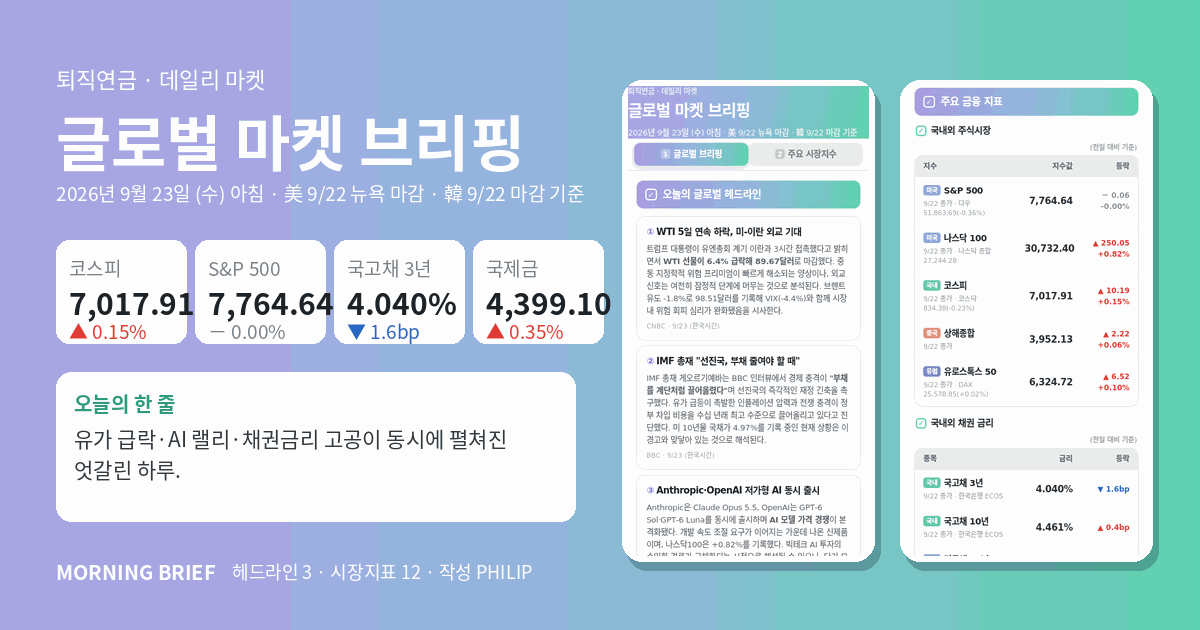
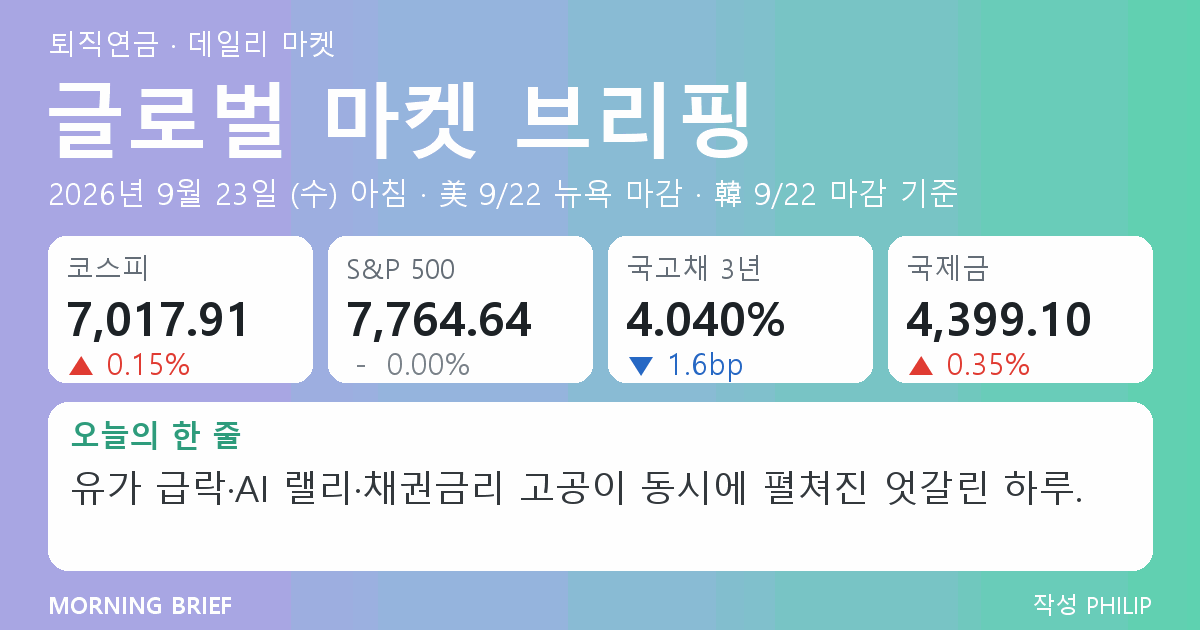
Enlarge daily preview with full-width summary and key indicators

diff --git a/docs/2026-09-23.html b/docs/2026-09-23.html
@@ -22,7 +22,7 @@
 <meta property="og:title"       content="글로벌 마켓 브리핑 | 2026년 9월 23일 (수) 아침">
 <meta property="og:description" content="WTI -6.4%로 89.67달러·미-이란 외교 기대 반영. 나스닥100 +0.82%·미 10년물 4.97%·IMF &#x27;선진국 부채 감축&#x27; 경고 주목.">
 <meta property="og:url"         content="https://psyops42-art.github.io/market-brief/2026-09-23.html">
-<meta property="og:image"       content="https://psyops42-art.github.io/market-brief/og-2026-09-23.png">
+<meta property="og:image"       content="https://psyops42-art.github.io/market-brief/og-2026-09-23.png?v=summary2">
 <meta property="og:image:width"  content="1200">
 <meta property="og:image:height" content="630">
 <meta property="og:image:alt"   content="글로벌 마켓 브리핑 | 2026년 9월 23일 (수) 아침">
@@ -30,7 +30,7 @@
 <meta name="twitter:card"        content="summary_large_image">
 <meta name="twitter:title"       content="글로벌 마켓 브리핑 | 2026년 9월 23일 (수) 아침">
 <meta name="twitter:description" content="WTI -6.4%로 89.67달러·미-이란 외교 기대 반영. 나스닥100 +0.82%·미 10년물 4.97%·IMF &#x27;선진국 부채 감축&#x27; 경고 주목.">
-<meta name="twitter:image"       content="https://psyops42-art.github.io/market-brief/og-2026-09-23.png">
+<meta name="twitter:image"       content="https://psyops42-art.github.io/market-brief/og-2026-09-23.png?v=summary2">
 
 <meta name="description" content="WTI -6.4%로 89.67달러·미-이란 외교 기대 반영. 나스닥100 +0.82%·미 10년물 4.97%·IMF &#x27;선진국 부채 감축&#x27; 경고 주목.">
 <meta name="author" content="PHILIP">

diff --git a/docs/daily.html b/docs/daily.html
@@ -22,7 +22,7 @@
 <meta property="og:title"       content="글로벌 마켓 브리핑 | 2026년 9월 23일 (수) 아침">
 <meta property="og:description" content="WTI -6.4%로 89.67달러·미-이란 외교 기대 반영. 나스닥100 +0.82%·미 10년물 4.97%·IMF &#x27;선진국 부채 감축&#x27; 경고 주목.">
 <meta property="og:url"         content="https://psyops42-art.github.io/market-brief/daily.html">
-<meta property="og:image"       content="https://psyops42-art.github.io/market-brief/og-2026-09-23.png">
+<meta property="og:image"       content="https://psyops42-art.github.io/market-brief/og-2026-09-23.png?v=summary2">
 <meta property="og:image:width"  content="1200">
 <meta property="og:image:height" content="630">
 <meta property="og:image:alt"   content="글로벌 마켓 브리핑 | 2026년 9월 23일 (수) 아침">
@@ -30,7 +30,7 @@
 <meta name="twitter:card"        content="summary_large_image">
 <meta name="twitter:title"       content="글로벌 마켓 브리핑 | 2026년 9월 23일 (수) 아침">
 <meta name="twitter:description" content="WTI -6.4%로 89.67달러·미-이란 외교 기대 반영. 나스닥100 +0.82%·미 10년물 4.97%·IMF &#x27;선진국 부채 감축&#x27; 경고 주목.">
-<meta name="twitter:image"       content="https://psyops42-art.github.io/market-brief/og-2026-09-23.png">
+<meta name="twitter:image"       content="https://psyops42-art.github.io/market-brief/og-2026-09-23.png?v=summary2">
 
 <meta name="description" content="WTI -6.4%로 89.67달러·미-이란 외교 기대 반영. 나스닥100 +0.82%·미 10년물 4.97%·IMF &#x27;선진국 부채 감축&#x27; 경고 주목.">
 <meta name="author" content="PHILIP">

diff --git a/make_og.py b/make_og.py
@@ -1,21 +1,18 @@
 # -*- coding: utf-8 -*-
 """
-OG 썸네일 생성 — 대시보드 실제 화면을 캡처해 1200×630 카드로 합성
+OG 썸네일 생성 — 제목·핵심 지표·시장 요약을 1200×630 전체에 배치
 
 render.py 가 호출합니다. 단독 실행도 가능합니다.
 
     python make_og.py out/2026-08-30.html out/og-2026-08-30.png \
         --date-line "2026년 8월 30일 (일) 아침 · 美/韓 8/28 마감 기준"
 
-필요 패키지 : pillow, wkhtmltoimage (wkhtmltopdf 패키지), fonts-noto-cjk
+필요 패키지 : pillow, 한글 글꼴 (Linux: fonts-noto-cjk, Windows: 맑은 고딕)
 """
 
 import argparse
 import os
-import shutil
 import subprocess
-import sys
-import tempfile
 
 from PIL import Image, ImageDraw, ImageFont
 
@@ -25,7 +22,8 @@ UP, DN, FL = (224, 59, 50), (38, 104, 196), (120, 129, 138)
 
 
 def font(size, bold=False):
-    for path in (f"/usr/share/fonts/opentype/noto/NotoSansCJK-{'Bold' if bold else 'Regular'}.ttc",):
+    for path in (f"/usr/share/fonts/opentype/noto/NotoSansCJK-{'Bold' if bold else 'Regular'}.ttc",
+                 'C:/Windows/Fonts/malgunbd.ttf' if bold else 'C:/Windows/Fonts/malgun.ttf'):
         if os.path.exists(path):
             return ImageFont.truetype(path, size)
     try:
@@ -34,32 +32,6 @@ def font(size, bold=False):
             subprocess.check_output(["fc-match", "-f", "%{file}", q]).decode().strip(), size)
     except Exception:                                        # noqa: BLE001
         return ImageFont.load_default()
-
-
-def shoot(html_path: str, page: int, out_png: str, width: int = 390):
-    """대시보드를 캡처. page=2 면 2번 탭이 열린 상태로 렌더한다."""
-    src = html_path
-    if page == 2:
-        with open(html_path, encoding="utf-8") as fp:
-            s = fp.read()
-        s = (s.replace('<section class="pg on" id="p1">', '<section class="pg" id="p1">')
-              .replace('<section class="pg" id="p2">', '<section class="pg on" id="p2">')
-              .replace("\ngo(1);", ""))
-        fd, src = tempfile.mkstemp(suffix=".html")
-        with os.fdopen(fd, "w", encoding="utf-8") as fp:
-            fp.write(s)
-    try:
-        if os.path.exists(out_png):
-            os.remove(out_png)
-        r = subprocess.run(["wkhtmltoimage", "--enable-local-file-access",
-                            "--width", str(width), "--quality", "92",
-                            "--javascript-delay", "600", os.path.abspath(src), os.path.abspath(out_png)],
-                           capture_output=True, text=True, timeout=90)
-        if r.returncode or not os.path.exists(out_png) or os.path.getsize(out_png) == 0:
-            raise RuntimeError(f"캡처 실패({r.returncode}): {(r.stderr or r.stdout)[:300]}")
-    finally:
-        if page == 2 and os.path.exists(src):
-            os.unlink(src)
 
 
 def gradient() -> Image.Image:
@@ -75,101 +47,62 @@ def gradient() -> Image.Image:
     return bg
 
 
-def phone(img: Image.Image, target_h: int):
-    """폰 프레임(흰 테두리 + 라운드)"""
-    r = target_h / img.size[1]
-    img = img.resize((int(img.size[0] * r), target_h), Image.LANCZOS)
-    pad = 6
-    card = Image.new("RGB", (img.size[0] + pad * 2, img.size[1] + pad * 2), (255, 255, 255))
-    card.paste(img, (pad, pad))
-    mask = Image.new("L", card.size, 0)
-    ImageDraw.Draw(mask).rounded_rectangle([0, 0, *[v - 1 for v in card.size]], radius=20, fill=255)
-    return card, mask
+def fit_font(text, size, width, draw, bold=False):
+    while size > 16 and draw.textlength(text, font=font(size, bold)) > width:
+        size -= 1
+    return font(size, bold)
 
 
-def paste_shadow(base, card, mask, xy):
-    sh = Image.new("RGBA", base.size, (0, 0, 0, 0))
-    ImageDraw.Draw(sh).rounded_rectangle(
-        [xy[0] + 5, xy[1] + 8, xy[0] + card.size[0] + 5, xy[1] + card.size[1] + 8],
-        radius=20, fill=(20, 40, 60, 70))
-    base.paste(Image.alpha_composite(base.convert("RGBA"), sh).convert("RGB"), (0, 0))
-    base.paste(card, xy, mask)
-
-
-def wrap(text: str, f, max_w: int, d: ImageDraw.ImageDraw, limit=3):
-    lines, cur = [], ""
-    for word in text.split():
-        trial = (cur + " " + word).strip()
-        if d.textlength(trial, font=f) <= max_w:
-            cur = trial
+def wrap(text, f, max_w, draw, limit=3):
+    """Wrap Korean and long unspaced strings by measured width."""
+    lines, current = [], ""
+    for char in " ".join(str(text).split()):
+        if current and draw.textlength(current + char, font=f) > max_w:
+            lines.append(current.rstrip())
+            current = char.lstrip()
         else:
-            if cur:
-                lines.append(cur)
-            cur = word
-            if len(lines) == limit:
-                break
-    if cur and len(lines) < limit:
-        lines.append(cur)
+            current += char
+    if current:
+        lines.append(current)
+    if len(lines) > limit:
+        lines = lines[:limit]
+        while lines[-1] and draw.textlength(lines[-1] + "…", font=f) > max_w:
+            lines[-1] = lines[-1][:-1]
+        lines[-1] += "…"
     return lines
 
 
 def build(html_path, out_png, date_line, kpis, oneline, tmpdir=None):
-    owned_tmp = tmpdir is None
-    tmpdir = tmpdir or tempfile.mkdtemp()
-    p1, p2 = os.path.join(tmpdir, "_p1.png"), os.path.join(tmpdir, "_p2.png")
-    shoot(html_path, 1, p1)
-    shoot(html_path, 2, p2)
-
+    """Keep the renderer call signature; no dashboard screenshots are needed."""
+    import html
+    import re
     bg = gradient()
-    im1 = Image.open(p1).convert("RGB").crop((0, 0, 390, min(760, Image.open(p1).size[1])))
-    h2 = Image.open(p2).size[1]
-    im2 = Image.open(p2).convert("RGB").crop((0, 150, 390, min(910, h2)))
-    f1, m1 = phone(im1, 470)
-    f2, m2 = phone(im2, 470)
-    paste_shadow(bg, f1, m1, (622, 80))
-    paste_shadow(bg, f2, m2, (900, 80))
-
     d = ImageDraw.Draw(bg)
-    d.text((56, 62), "퇴직연금 · 데일리 마켓", font=font(22), fill=(255, 255, 255))
-    d.text((56, 96), "글로벌 마켓 브리핑", font=font(60, True), fill=(255, 255, 255))
-    fd = font(21)                                   # 폰 이미지에 가리지 않게 자동 축소
-    for size in (21, 20, 19, 18, 17):
-        fd = font(size)
-        if d.textlength(date_line, font=fd) <= 545:
-            break
-    d.text((56, 178), date_line, font=fd, fill=(255, 255, 255))
+    white = (255, 255, 255)
+    d.text((48, 24), "퇴직연금 · 데일리 마켓", font=font(28), fill=white)
+    d.text((44, 62), "글로벌 마켓 브리핑", font=font(82, True), fill=white)
+    d.text((48, 172), date_line, font=fit_font(date_line, 30, 1104, d), fill=white)
 
-    x0, y0, bw, bh, gap = 56, 240, 131, 104, 8
-    for i, (label, value, chg, direction) in enumerate(kpis[:4]):
-        x = x0 + i * (bw + gap)
-        mk = Image.new("L", (bw, bh), 0)
-        ImageDraw.Draw(mk).rounded_rectangle([0, 0, bw - 1, bh - 1], radius=13, fill=255)
-        bg.paste(Image.new("RGB", (bw, bh), (255, 255, 255)), (x, y0), mk)
-        d.text((x + 13, y0 + 13), label, font=font(19), fill=(120, 129, 138))
-        d.text((x + 13, y0 + 40), value, font=font(30, True), fill=(29, 34, 38))
-        d.text((x + 13, y0 + 76), chg, font=font(19),
-               fill={"up": UP, "dn": DN}.get(direction, FL))
+    width, gap, top, height = 264, 16, 236, 146
+    for i, (label, value, change, direction) in enumerate(kpis[:4]):
+        left = 48 + i * (width + gap)
+        d.rounded_rectangle((left, top, left + width, top + height), radius=18, fill=white)
+        d.text((left + 18, top + 12), label, font=font(28), fill=(100, 110, 120))
+        d.text((left + 18, top + 49), value,
+               font=fit_font(value, 46, width - 36, d, True), fill=(29, 34, 38))
+        d.text((left + 18, top + 106), change,
+               font=fit_font(change, 30, width - 36, d), fill={"up": UP, "dn": DN}.get(direction, FL))
 
-    bx, by, bw2, bh2 = 56, 372, 520, 150
-    mk = Image.new("L", (bw2, bh2), 0)
-    ImageDraw.Draw(mk).rounded_rectangle([0, 0, bw2 - 1, bh2 - 1], radius=15, fill=255)
-    bg.paste(Image.new("RGB", (bw2, bh2), (255, 255, 255)), (bx, by), mk)
-    d.text((bx + 18, by + 16), "오늘의 한 줄", font=font(20, True), fill=(46, 156, 124))
-    fb = font(21)
-    for i, line in enumerate(wrap(oneline, fb, bw2 - 36, d, limit=3)):
-        d.text((bx + 18, by + 50 + i * 31), line, font=fb, fill=(51, 56, 61))
-
-    d.text((56, 556), "MORNING BRIEF", font=font(20, True), fill=(255, 255, 255))
-    d.text((232, 558), "헤드라인 3 · 시장지표 12 · 작성 PHILIP", font=font(18), fill=(255, 255, 255))
-
-    bg.save(out_png)
-    with Image.open(out_png) as rendered:
-        rendered.convert("RGB").quantize(colors=220, method=2).save(out_png, optimize=True)
-    for f in (p1, p2):
-        if os.path.exists(f):
-            os.remove(f)
-    if owned_tmp:
-        shutil.rmtree(tmpdir, ignore_errors=True)
+    d.rounded_rectangle((48, 402, 1152, 570), radius=20, fill=white)
+    d.text((70, 414), "오늘의 한 줄", font=font(30, True), fill=(46, 156, 124))
+    plain = html.unescape(re.sub(r"<[^>]*>", "", str(oneline)))
+    f = font(36)
+    for i, line in enumerate(wrap(plain, f, 1060, d, limit=2)):
+        d.text((70, 462 + i * 47), line, font=f, fill=(51, 56, 61))
+    d.text((48, 588), "MORNING BRIEF", font=font(23, True), fill=white)
+    footer = "작성 PHILIP"
+    d.text((1152 - d.textlength(footer, font=font(23)), 588), footer, font=font(23), fill=white)
+    bg.quantize(colors=220, method=2).save(out_png, optimize=True)
     return out_png
 
 

diff --git a/tests/test_thumbnail.py b/tests/test_thumbnail.py
@@ -1,0 +1,34 @@
+import importlib.util
+import tempfile
+import unittest
+from pathlib import Path
+from unittest import mock
+
+from PIL import Image, ImageDraw
+
+
+spec = importlib.util.spec_from_file_location(
+    "daily_thumbnail", Path(__file__).resolve().parents[1] / "make_og.py")
+thumbnail = importlib.util.module_from_spec(spec)
+spec.loader.exec_module(thumbnail)
+
+
+class ThumbnailTests(unittest.TestCase):
+    def test_build_without_html_or_screenshot_tool(self):
+        with tempfile.TemporaryDirectory() as folder:
+            output = Path(folder) / "og.png"
+            with mock.patch.object(thumbnail.subprocess, "check_output", side_effect=OSError):
+                thumbnail.build("missing.html", output, "2026년 9월 23일 아침",
+                                [("코스피", "7,017.91", "▲0.15%", "up")] * 4,
+                                "오늘의 <b>시장 요약</b>")
+            with Image.open(output) as image:
+                self.assertEqual(image.size, (1200, 630))
+                image.verify()
+
+    def test_long_summary_stays_within_two_lines(self):
+        draw = ImageDraw.Draw(Image.new("RGB", (1200, 630)))
+        font = thumbnail.font(36)
+        lines = thumbnail.wrap("시장동향과투자심리" * 50, font, 1060, draw, limit=2)
+        self.assertEqual(len(lines), 2)
+        self.assertTrue(lines[-1].endswith("…"))
+        self.assertTrue(all(draw.textlength(line, font=font) <= 1060 for line in lines))

diff --git a/render.py b/render.py
@@ -258,7 +258,7 @@ def main():
                 .replace("{{TITLE}}", html.escape(title))
                 .replace("{{OG_DESC}}", html.escape(str(brief.get("og_description", ""))))
                 .replace("{{OG_URL}}", f"{args.base}/{slug}.html")
-                .replace("{{OG_IMAGE}}", f"{args.base}/og-{slug}.png")
+                .replace("{{OG_IMAGE}}", f"{args.base}/og-{slug}.png?v=summary2")
                 .replace("{{DATE_LINE}}", date_line)
                 .replace("{{NEWS}}", build_news(brief))
                 .replace("{{MINDSET}}", build_mindset(brief))
@@ -279,7 +279,7 @@ def main():
     with open(os.path.join(args.out, "daily.html"), "w", encoding="utf-8") as fp:
         fp.write(out_html.replace(f"{args.base}/{slug}.html", f"{args.base}/daily.html"))
 
-    # ── OG 썸네일 : 대시보드 실제 화면을 캡처해 합성 ──
+    # ── OG 썸네일 : 제목·핵심 지표·시장 요약을 전체 폭으로 배치 ──
     kpi_spec = [("코스피", "kospi"), ("S&P 500", "sp500"), ("국고채 3년", "ktb3y"), ("국제금", "gold")]
     kpis = [kpi(label, S.get(key)) for label, key in kpi_spec]
 

diff --git a/README.md b/README.md
@@ -195,7 +195,7 @@ Yahoo 일별 이력이 늦으면 범위 조회로 재확인합니다. 그래도 
 | `{{ONELINE_MARKET}}` `{{ONELINE_PENSION}}` `{{NEXT}}` `{{FOOTNOTE}}` | 하단 |
 | `{{OG_URL}}` `{{OG_IMAGE}}` `{{OG_DESC}}` | 링크 미리보기 |
 
-썸네일 레이아웃(폰 배치·KPI·색상)은 `make_og.py` 안에 있습니다.
+데일리 썸네일은 제목·핵심 지표 4개·오늘의 한 줄을 전체 폭으로 표시합니다. 레이아웃·글꼴·색상은 `make_og.py` 안에 있습니다.
 
 ---
 
